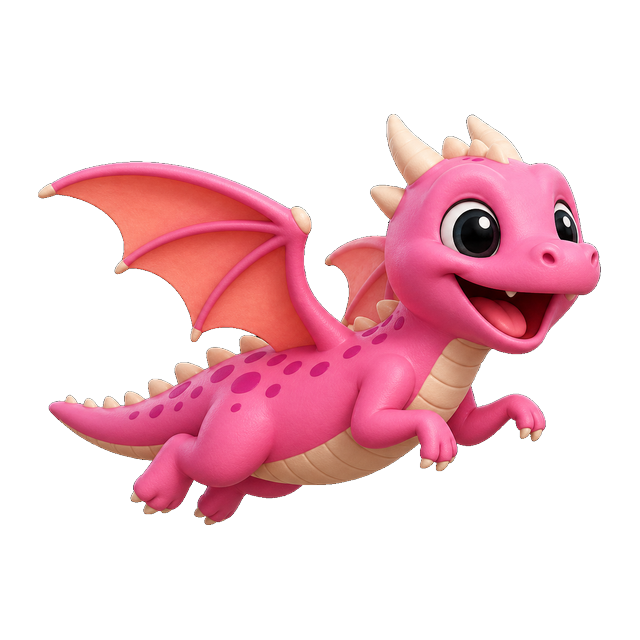
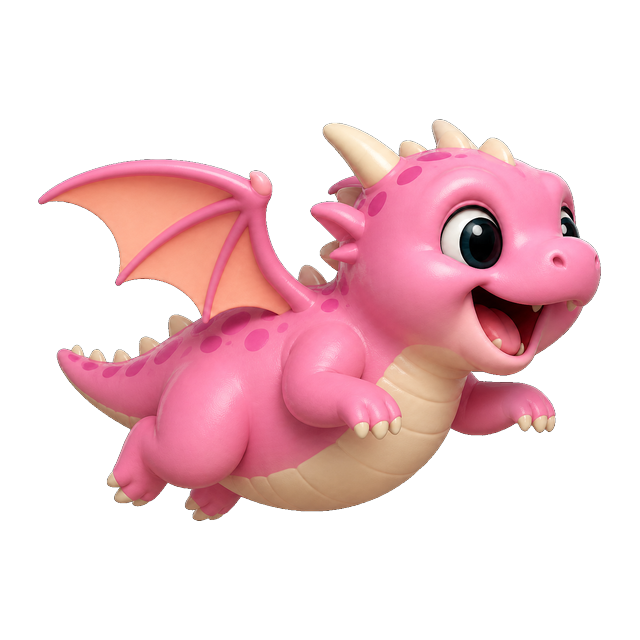
Thicker Mochi body, keep bent arms.

diff --git a/index.html b/index.html
@@ -1354,7 +1354,7 @@ var EYE_PUPILS={
   nimbus:[{cx:0.821,cy:0.457,pr:0.016}],
   coral:[{cx:0.834,cy:0.443,pr:0.016}],
   thorn:[{cx:0.800,cy:0.400,pr:0.016}],
-  mochi:[{cx:0.742,cy:0.373,pr:0.017},{cx:0.882,cy:0.366,pr:0.016}]
+  mochi:[{cx:0.753,cy:0.384,pr:0.017},{cx:0.888,cy:0.359,pr:0.016}]
 };
 function eyePr(e,IW){return Math.max(7,(e.pr||0.015)*IW)}
 function eyeCopyR(pr,IW){return Math.max(pr*1.8,8)}
